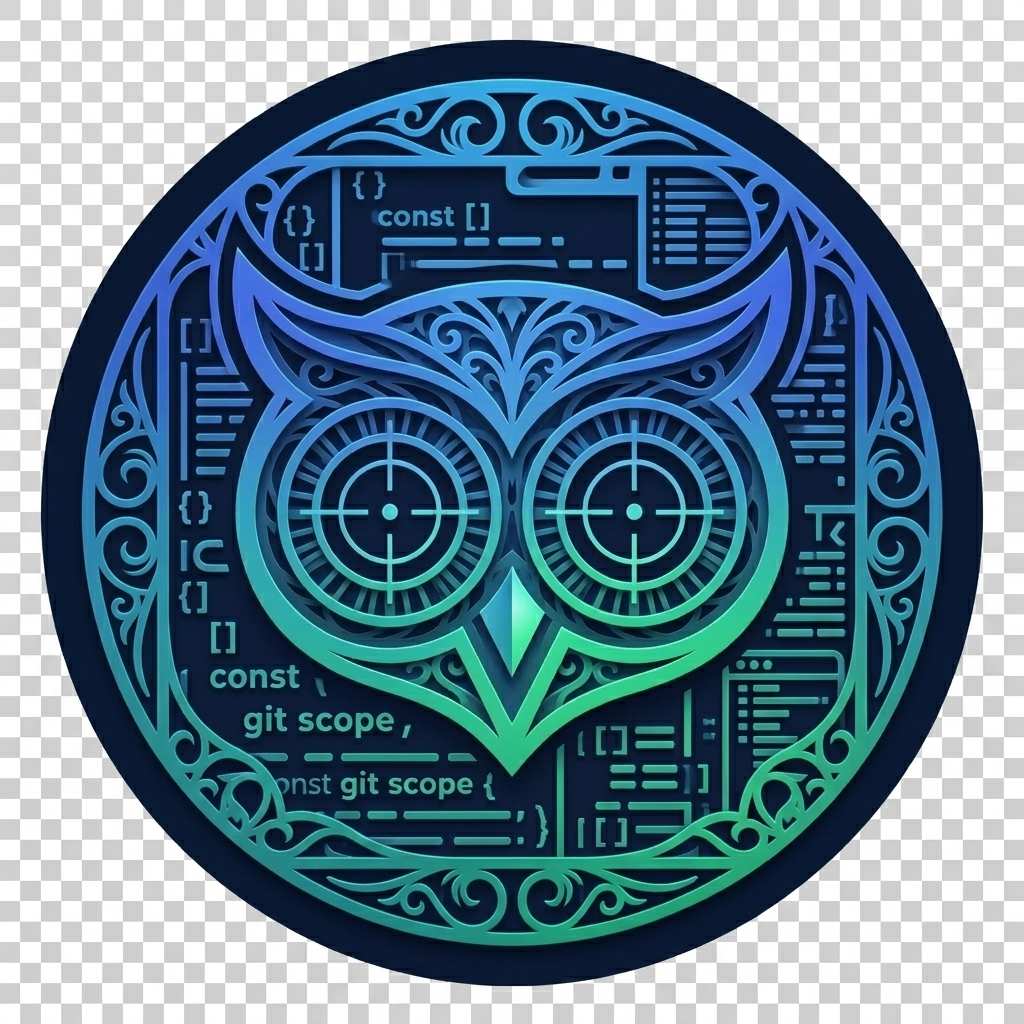
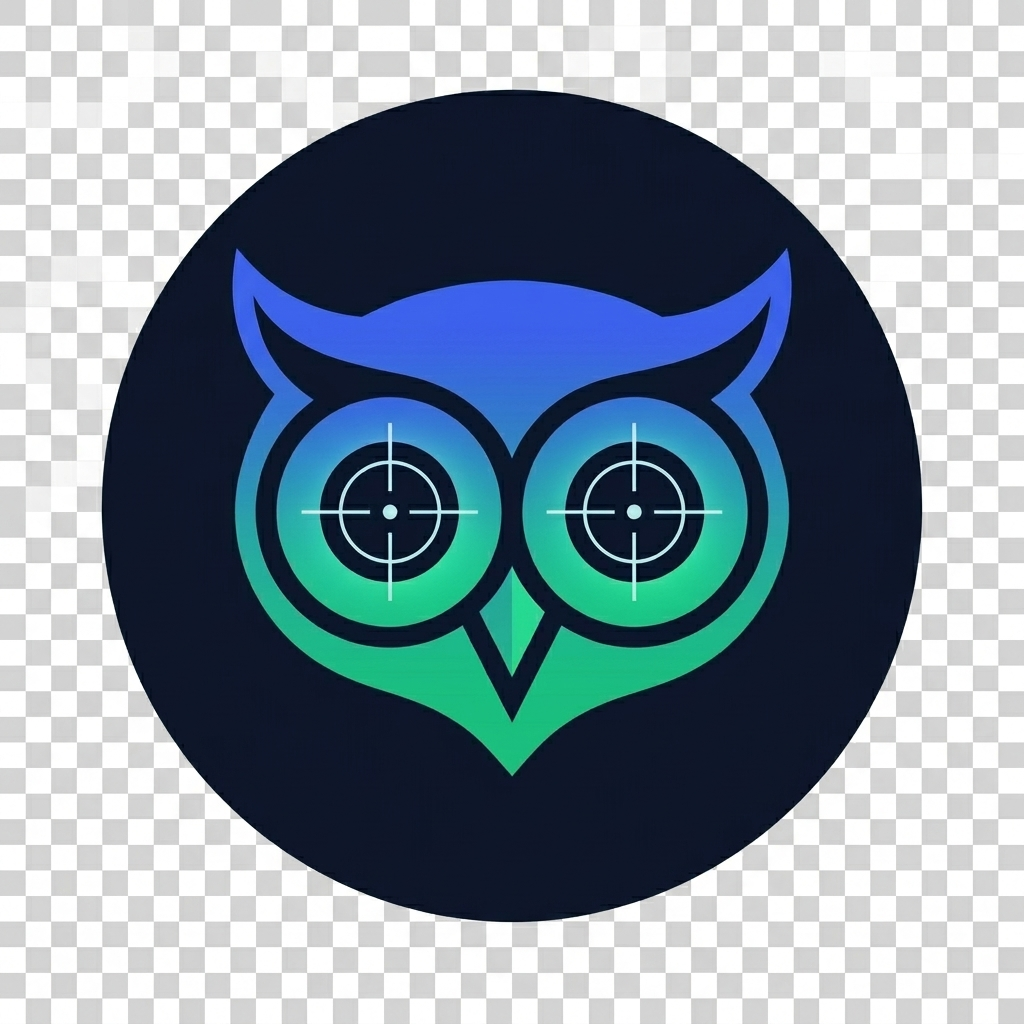
chore: restore v7 branding and fix build-time data collection crash

diff --git a/src/app/guest/page.tsx b/src/app/guest/page.tsx
@@ -9,7 +9,7 @@ import {
   CheckCircle2, Sparkles, TrendingUp, Shield
 } from "lucide-react";
 import Link from "next/link";
-import Image from "next/image";
+import NextImage from "next/image";
 import { motion, AnimatePresence } from "framer-motion";
 
 interface QuickRepo {
@@ -133,8 +133,15 @@ export default function GuestPage() {
       {/* Top bar */}
       <div className="border-b border-border/50 bg-card/50 backdrop-blur-sm sticky top-0 z-50">
         <div className="max-w-6xl mx-auto px-6 py-3 flex items-center justify-between">
-          <Link href="/" className="flex items-center gap-2">
-            <span className="font-mono text-xs font-black uppercase tracking-widest text-primary">GitScope</span>
+          <Link href="/" className="flex items-center gap-2.5">
+            <NextImage 
+              src="/logo.png" 
+              width={32} 
+              height={32} 
+              alt="GitScope Logo" 
+              className="size-8 rounded-lg shadow-xl shadow-primary/20 ring-1 ring-white/10"
+            />
+            <span className="font-heading text-lg font-bold tracking-tight text-foreground uppercase">GitScope</span>
             <span className="px-2 py-0.5 rounded-full bg-amber-500/10 border border-amber-500/20 text-[9px] font-black text-amber-500 uppercase tracking-widest">Guest Preview</span>
           </Link>
           <div className="flex items-center gap-3">
@@ -200,7 +207,7 @@ export default function GuestPage() {
                     onClick={() => loadRepo(r.full_name)}
                     className="w-full flex items-center gap-3 p-3 hover:bg-muted/60 transition-colors text-left border-b border-border/50 last:border-0"
                   >
-                    <Image src={r.owner.avatar_url} width={32} height={32} alt="" className="size-8 rounded-lg" />
+                    <NextImage src={r.owner.avatar_url} width={32} height={32} alt="" className="size-8 rounded-lg" />
                     <div className="flex-1 min-w-0">
                       <p className="text-sm font-bold truncate">{r.full_name}</p>
                       <p className="text-xs text-muted-foreground truncate">{r.description}</p>
@@ -375,7 +382,7 @@ export default function GuestPage() {
             <div className="rounded-2xl border border-border bg-card p-6">
               <div className="flex items-start justify-between gap-4 flex-wrap">
                 <div className="flex items-start gap-4">
-                  <Image
+                  <NextImage
                     src={selectedRepo.owner.avatar_url}
                     width={56}
                     height={56}

diff --git a/src/components/layout/marketing-header.tsx b/src/components/layout/marketing-header.tsx
@@ -6,7 +6,7 @@ import { useSession } from "next-auth/react";
 import { performLogout } from "@/lib/client-auth";
 import { buttonVariants } from "@/components/ui/button";
 import Link from "next/link";
-import Image from "next/image";
+import NextImage from "next/image";
 
 import { ThemeToggle } from "./theme-toggle";
 import {
@@ -41,9 +41,13 @@ export function MarketingHeader({ session: serverSession }: { session?: Session 
     <header className="fixed top-0 left-0 right-0 z-50 border-b border-white/5 bg-background/80 backdrop-blur-md">
       <div className="mx-auto flex max-w-7xl items-center justify-between px-6 py-4">
         <Link href="/" className="flex items-center gap-2.5">
-          <div className="from-primary/25 to-primary-container/40 flex size-9 items-center justify-center rounded-lg border border-white/10 bg-gradient-to-br">
-            <span className="font-heading text-base font-black text-indigo-300">G</span>
-          </div>
+          <NextImage 
+            src="/logo.png" 
+            width={36} 
+            height={36} 
+            alt="GitScope Logo" 
+            className="size-9 rounded-lg shadow-xl shadow-primary/20 ring-1 ring-white/10"
+          />
           <span className="font-heading text-lg font-bold tracking-tight text-foreground">GitScope</span>
         </Link>
 
@@ -78,7 +82,7 @@ export function MarketingHeader({ session: serverSession }: { session?: Session 
                 <DropdownMenuTrigger render={
                   <button className="flex size-9 items-center justify-center rounded-full bg-primary/10 text-[11px] font-black text-primary border border-primary/20 hover:bg-primary/20 transition-all uppercase tracking-tighter outline-none">
                     {session?.user?.image ? (
-                      <Image src={session.user.image} width={32} height={32} alt="Avatar" className="size-full rounded-full object-cover" />
+                      <NextImage src={session.user.image} width={32} height={32} alt="Avatar" className="size-full rounded-full object-cover" />
                     ) : userInitials}
                   </button>
                 } />

diff --git a/src/features/layout/app-sidebar.tsx b/src/features/layout/app-sidebar.tsx
@@ -4,6 +4,7 @@ import { MaterialIcon } from "@/components/material-icon";
 import { ROUTES } from "@/constants/routes";
 import { cn } from "@/lib/utils";
 import Link from "next/link";
+import NextImage from "next/image";
 import { usePathname } from "next/navigation";
 import { useTheme } from "next-themes";
 import { useGitHubRateLimit } from "@/hooks/use-github-rate-limit";
@@ -138,9 +139,13 @@ export function AppSidebar({
     <div className="flex min-h-0 flex-1 flex-col pt-2">
       <div className={cn("mb-6 flex items-center px-5", isCollapsed ? "justify-center px-0" : "justify-between")}>
         <div className={cn("flex items-center", isCollapsed ? "justify-center" : "gap-3")}>
-          <div className="flex size-10 shrink-0 items-center justify-center rounded-lg bg-indigo-500/20 dark:bg-indigo-500/20">
-            <MaterialIcon name="rocket_launch" size={22} className="text-indigo-500 dark:text-indigo-400" />
-          </div>
+          <NextImage 
+            src="/logo.png" 
+            width={32} 
+            height={32} 
+            alt="GitScope Logo" 
+            className="size-8 rounded-lg shadow-lg shadow-primary/10 ring-1 ring-white/10"
+          />
           {!isCollapsed && (
             <div>
               <h3 className="font-heading text-lg leading-none font-black tracking-tight text-indigo-600 dark:text-indigo-400">

diff --git a/src/features/landing/landing-page.tsx b/src/features/landing/landing-page.tsx
@@ -11,6 +11,7 @@ import { ROUTES } from "@/constants/routes";
 import { motion } from "framer-motion";
 import { Search, LogIn } from "lucide-react";
 import Link from "next/link";
+import NextImage from "next/image";
 
 /* ---------- tiny reusable pieces ---------- */
 function VersionBadge() {
@@ -157,6 +158,16 @@ export function LandingPage() {
           >
             <div className="max-w-xl space-y-6 lg:max-w-lg">
               <VersionBadge />
+              <div className="flex items-center gap-4 mb-2">
+                <NextImage 
+                  src="/logo.png" 
+                  width={48} 
+                  height={48} 
+                  alt="GitScope Logo" 
+                  className="size-12 rounded-xl shadow-2xl shadow-primary/20 ring-1 ring-white/10"
+                />
+                <span className="font-heading text-2xl font-bold tracking-tighter text-foreground uppercase">GitScope</span>
+              </div>
               <h1 className="font-heading text-4xl leading-[1.08] font-bold tracking-tight text-foreground md:text-5xl lg:text-6xl">
                 The Engineer&apos;s
                 <br />

diff --git a/src/app/layout.tsx b/src/app/layout.tsx
@@ -31,6 +31,10 @@ export const metadata: Metadata = {
   },
   description:
     "Search repositories, explore contributors, languages, and commit activity with a polished analytics UI.",
+  icons: {
+    icon: "/icon.png",
+    apple: "/apple-icon.png",
+  },
 };
 
 export default async function RootLayout({
@@ -38,7 +42,12 @@ export default async function RootLayout({
 }: Readonly<{
   children: React.ReactNode;
 }>) {
-  const session = await getServerSession(authOptions);
+  let session = null;
+  try {
+    session = await getServerSession(authOptions);
+  } catch (error) {
+    console.warn("Auth session check skipped during build or db connection issue:", error);
+  }
 
   return (
     <html lang="en" suppressHydrationWarning>
